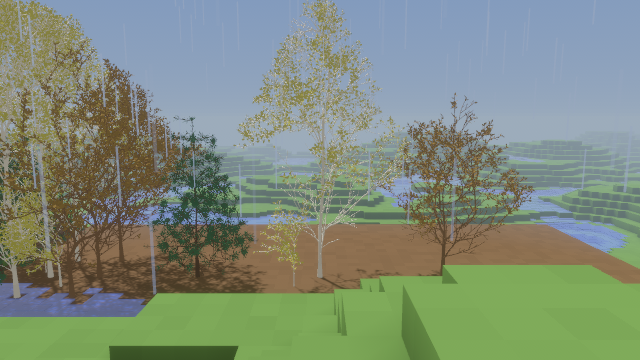
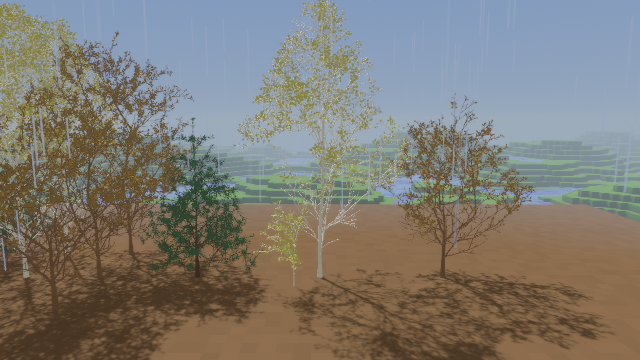
chore: grape needs 1 potassium; tree shots drain the cleared floor and stand back from a wider forest stand; progress for the understory trials

diff --git a/tests/e2e/tests/tree_graph_render.rs b/tests/e2e/tests/tree_graph_render.rs
@@ -35,8 +35,46 @@ use rmc_testkit::{TestApp, TestConfig, e2e};
 use rmc_world::coords::{CELL_SIZE_M, CellPos};
 use rmc_world::edit::{EditOp, MAX_EDIT_CELLS};
 use rmc_world::layers::LayerId;
-use rmc_world::materials::{MaterialId, MaterialTable};
+use rmc_world::materials::{MaterialId, MaterialTable, Phase};
 use rmc_world::shape::Shape;
+
+/// Every liquid cell in `min..=max` becomes air, one edit per run of them
+/// along x.
+fn drain(t: &mut TestApp, materials: &MaterialTable, min: CellPos, max: CellPos) {
+    let world = t.host_world();
+    let wet = |c: CellPos| {
+        world
+            .get_cell(c)
+            .and_then(|id| materials.get(id))
+            .is_some_and(|d| d.phase == Phase::Liquid)
+    };
+    let mut edits = Vec::new();
+    for y in min.0.y..=max.0.y {
+        for z in min.0.z..=max.0.z {
+            let mut x = min.0.x;
+            while x <= max.0.x {
+                if !wet(CellPos::new(x, y, z)) {
+                    x += 1;
+                    continue;
+                }
+                let start = x;
+                while x <= max.0.x && wet(CellPos::new(x, y, z)) {
+                    x += 1;
+                }
+                edits.push((
+                    EditOp::Set(MaterialId::AIR),
+                    Shape::Box {
+                        min: CellPos::new(start, y, z),
+                        max: CellPos::new(x - 1, y, z),
+                    },
+                ));
+            }
+        }
+    }
+    if !edits.is_empty() {
+        t.apply_edits(&edits);
+    }
+}
 
 /// One edit per x-slab of the box `min..=max`, each within the host's
 /// [`MAX_EDIT_CELLS`].
@@ -63,14 +101,17 @@ const DEPTH: i32 = 3;
 const FED: i32 = 200;
 /// Cleared ground around the bed, in cells, so close shots see a floor
 /// and not the cut walls of the terrain.
-const SCENE: i32 = 12;
+const SCENE: i32 = 24;
+/// Rain pools on the flat cleared floor: before each shot, liquid in this
+/// many cells above it is drained.
+const DRAIN: i32 = 4;
 /// The forest stand: `STAND` × `STAND` trees, `STAND_SPACING` cells
 /// apart, starting `STAND_GAP` cells past the bed's +x edge. The eye
 /// stands `FOREST_BACK` cells from its middle.
 const STAND: i32 = 3;
-const STAND_SPACING: i32 = 4;
+const STAND_SPACING: i32 = 6;
 const STAND_GAP: i32 = 3;
-const FOREST_BACK: i32 = 10;
+const FOREST_BACK: i32 = 26;
 /// Open air kept above the bed.
 const HEADROOM: i32 = 30;
 /// Seasons grown before the first shot: four years, into the fifth
@@ -199,6 +240,8 @@ fn meshes(t: &mut TestApp, roots: &[CellPos]) -> Vec<(usize, usize)> {
 
 /// A player's view of the stand: from [`FOREST_BACK`] cells off its
 /// middle, on the side whose ground is nearest the stand's, at eye height.
+/// The cleared floor reaches past it on -z, which wins a tie (the bed lies
+/// on -x).
 fn forest(t: &mut TestApp, stand: &[CellPos]) {
     let n = stand.len() as i32;
     let mid = stand.iter().fold(IVec3::ZERO, |s, c| s + c.0) / n;
@@ -368,10 +411,15 @@ fn run(t: &mut TestApp) {
         )]);
     }
     feed(t);
+    let (wet_lo, wet_hi) = (
+        CellPos::new(s_lo.0, ground + 1, s_lo.1),
+        CellPos::new(s_hi.0, ground + DRAIN, s_hi.1),
+    );
     for _ in 0..GROW {
         t.advance_season();
         feed(t);
     }
+    drain(t, &materials, wet_lo, wet_hi);
     t.steps(4);
     settle(t);
     let grown = meshes(t, &roots);
@@ -422,6 +470,7 @@ fn run(t: &mut TestApp) {
     for _ in 0..rows {
         t.advance_season();
         feed(t);
+        drain(t, &materials, wet_lo, wet_hi);
         t.steps(4);
         settle(t);
         let label = turn(t);

diff --git a/PROGRESS.md b/PROGRESS.md
@@ -4555,3 +4555,28 @@ Tests added: none.
 Decisions: none. Options are on the update artifact: trial runs, keep clover alive (p demand 1), faster rot, moss takes no n, grape k demand 1.
 Next: apply the owner's pick.
 Blockers: waiting on the owner's pick.
+
+## 2026-11-01 — Understory trials, grape potassium, drained tree shots — passed
+Done:
+- Owner picks on the update artifact (https://claude.ai/artifact/4HLgdihEvpnvexPXn2FVZA): run the nitrogen trials, lower grape's potassium, fix the shots, push.
+- Grape `demand` k 2 → 1 (plants.ron). In the ten-year world, grape ends at 9 instead of 3 (from 52).
+- `tree_graph_render`:
+  - Before each shot, liquid in the `DRAIN` (4) cells above the cleared floor becomes air.
+  - The forest stand is 6 cells apart, the clearing is 24 cells (`SCENE`), and the forest eye stands 26 cells back on the -z side.
+  - At 14 cells back the eye stood inside the grown crowns. At 26 cells with a 16-cell clearing, the flattest side was the bed, and a bed birch filled the frame.
+  - Passes locally in 1,775 s.
+  - Left in the shots: ice and snow blocks on the floor after winter. They are solid, and the drain removes only liquid.
+- Trials: headless, seed 1, 128 × 64 × 128, 40 seasons, release, grape k 1 in each. Assets were changed for each run and then restored; none of these changes is committed. Counts at season 39 (grass / clematis / grape / clover / moss / oak / soil n):
+  - grape only: 0 / 0 / 9 / 0 / 5,815 / 57 / 1.03 M;
+  - clover `demand` p 1: 0 / 0 / 8 / 0 (161 at season 8) / 5,827 / 57 / 1.03 M;
+  - `decompose` consumes c 2 (was 4): 0 / 2 / 12 / 0 / 5,788 / 62 / 1.10 M;
+  - moss without n uptake: 19 / 6 / 9 / 0 / 5,720 / 66 / 1.29 M;
+  - all three: 69 / 10 / 15 / 0 (199 at season 8) / 5,661 / 70 / 1.45 M.
+- Invariants held in every run.
+- In the all-three run, grass's "n >= 2" limit falls to 3 by season 39. Grass is held by space: moss fills the cells a grass cohort leaves, and a cell holds one plant.
+Tests added: none (data change and scenario setup).
+Decisions:
+- The grape change ships as the owner picked. The nitrogen fixes don't ship until the owner picks from the trial results ("trial" meant measure, apply nothing).
+- Draining the scene before each shot is scenario setup, like the clearing. The rain still falls and still shows in the shots.
+Next: the owner's picks on the trial results and on grass against moss.
+Blockers: none.
